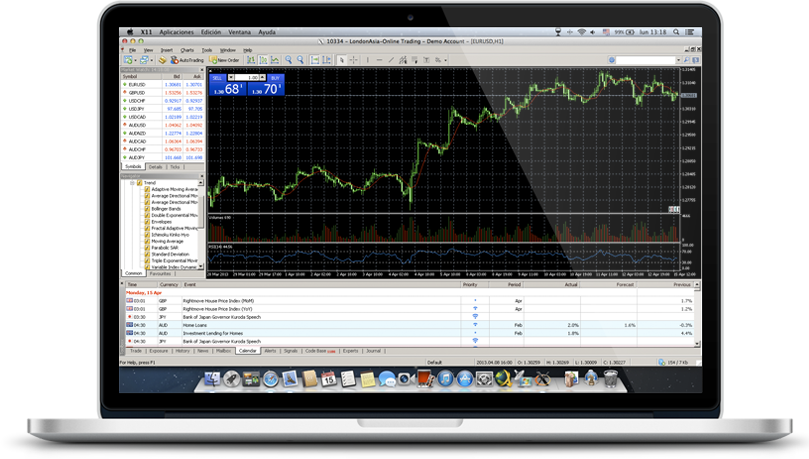
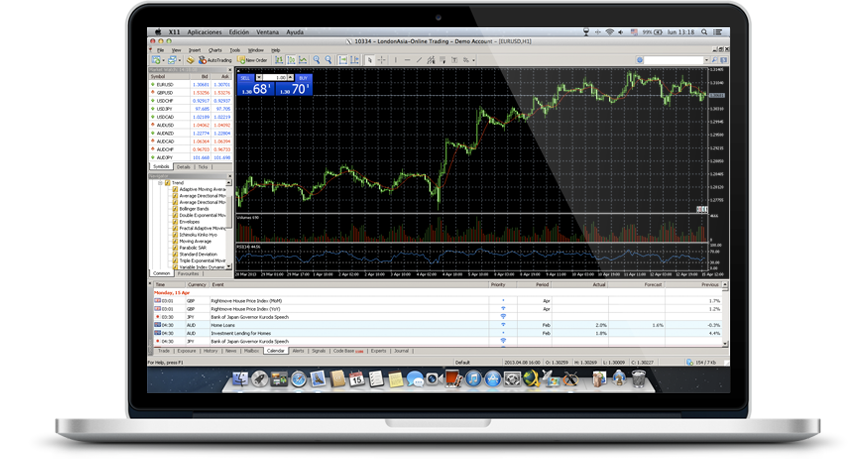
new mac picture

diff --git a/less/main.less b/less/main.less
@@ -1721,8 +1721,8 @@ section.normal {
       .imac {
         z-index: 2;
         top: 126px;
-        left: 175px;
-        width: 809px;
+        left: 149px;
+        width: 850px;
         height: 459px;
         background: url(../img/mac.png) no-repeat;
       }
